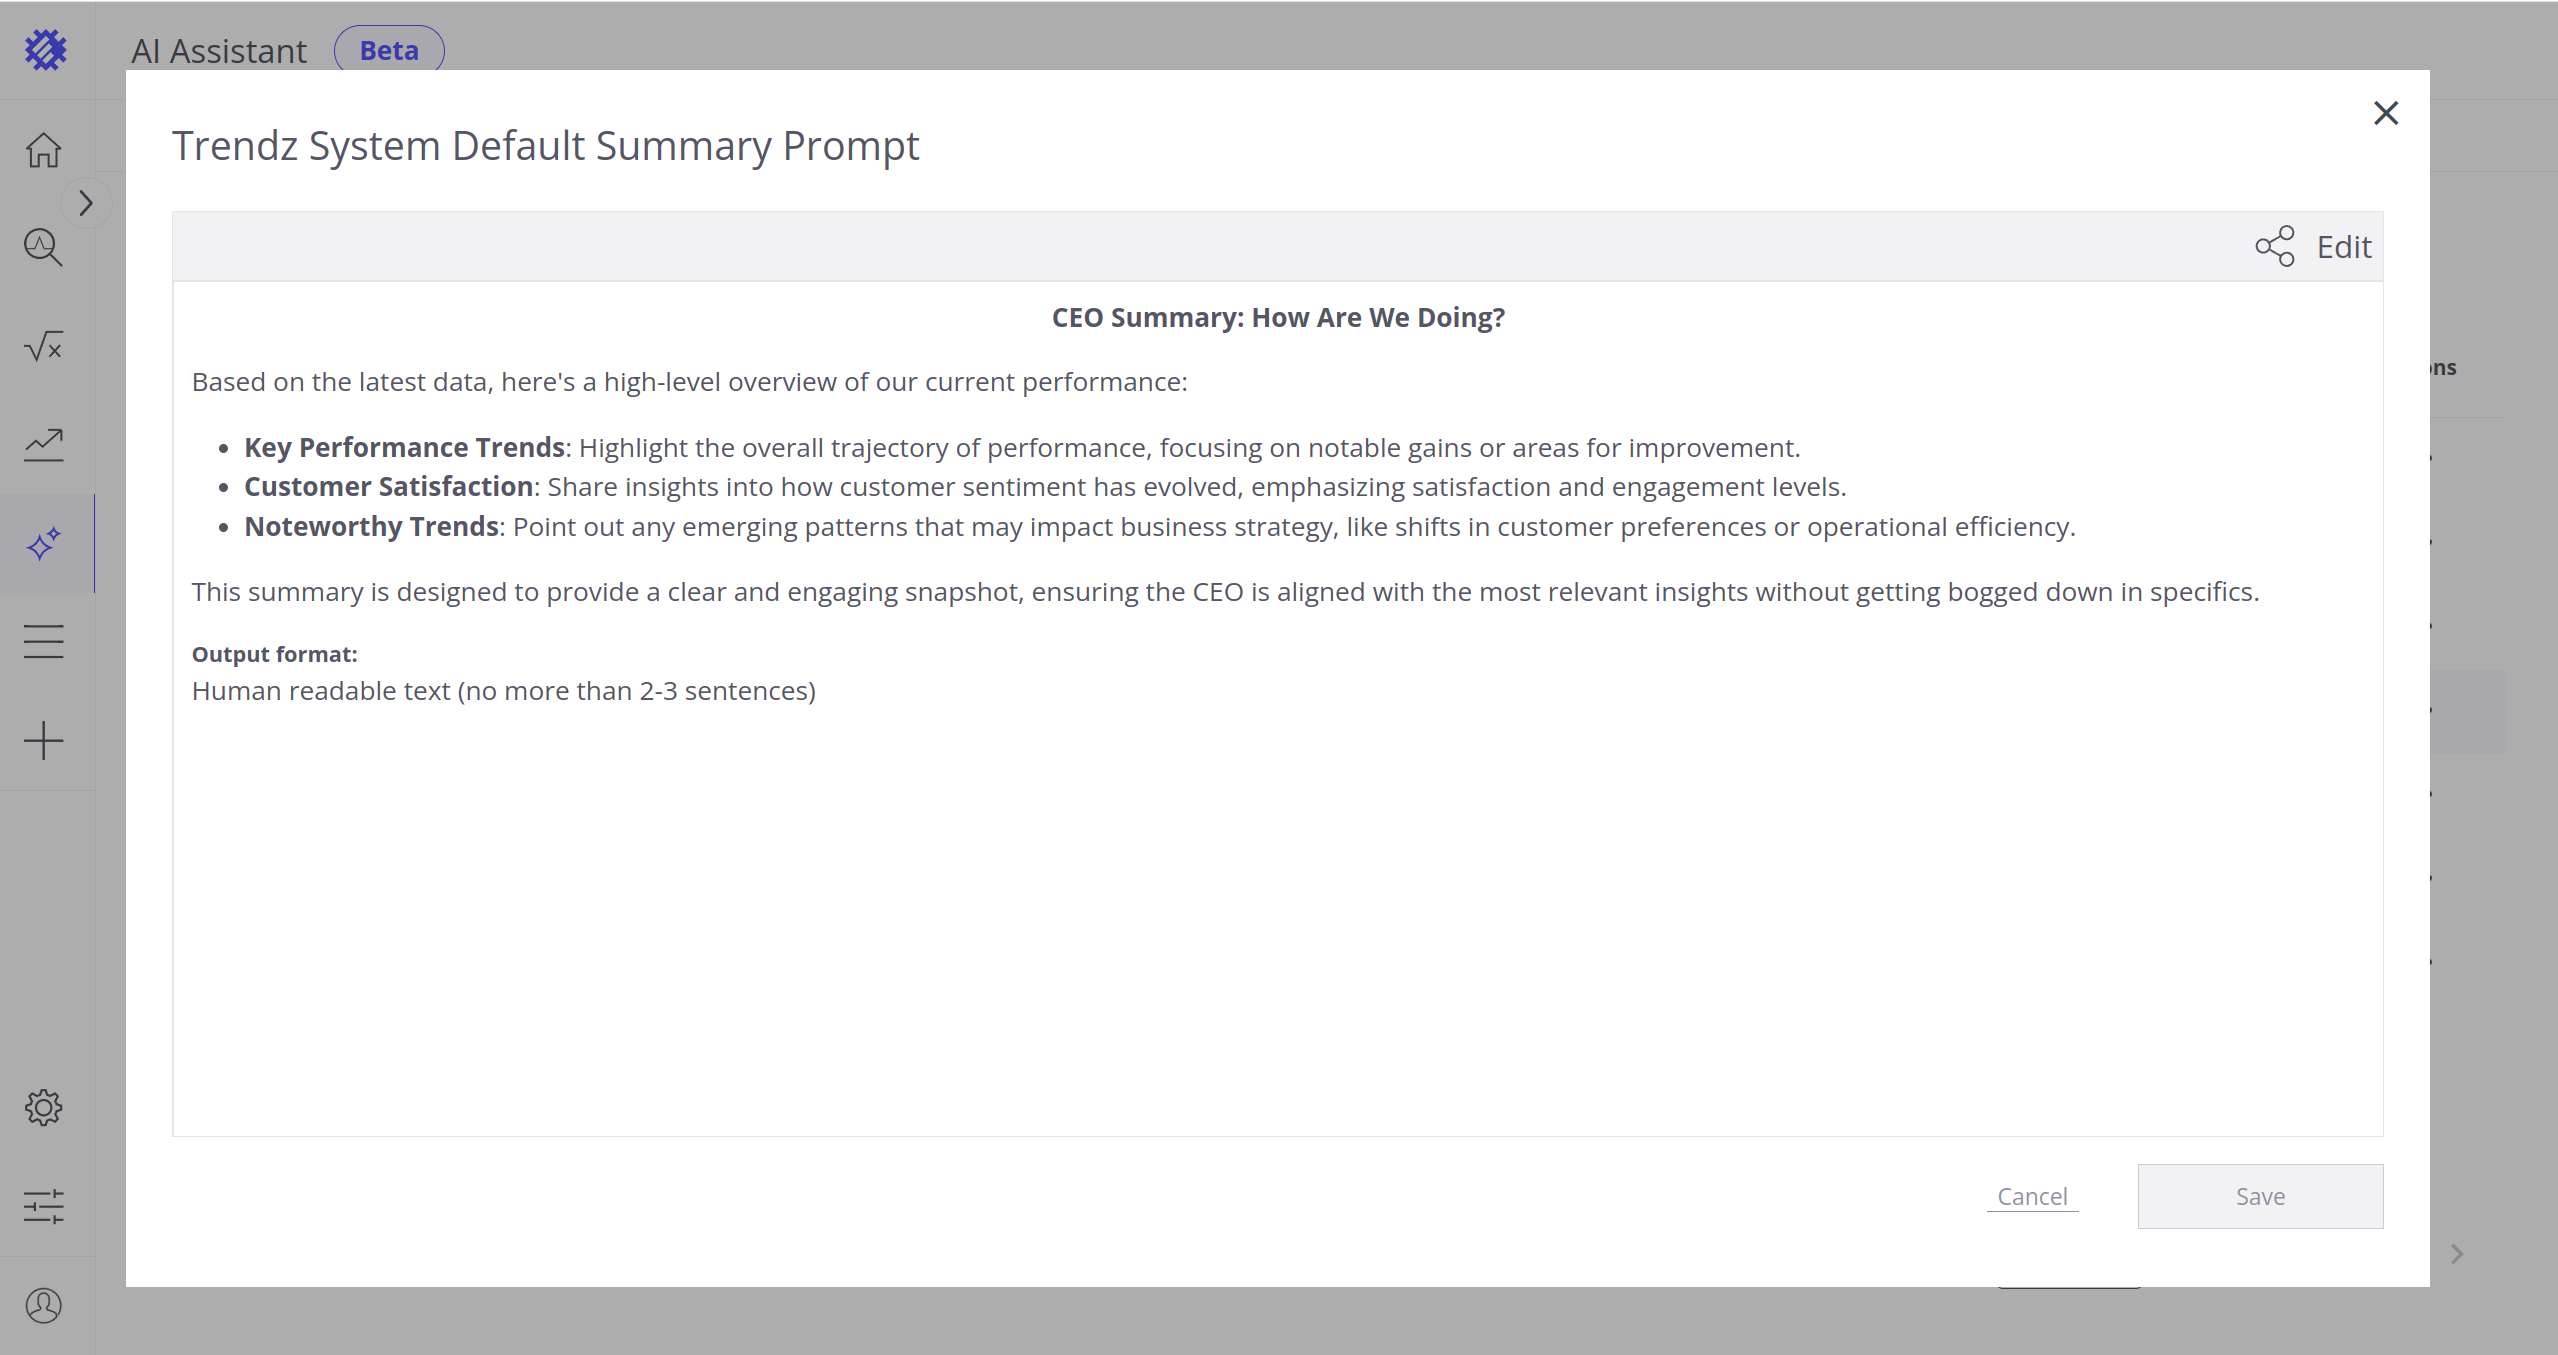
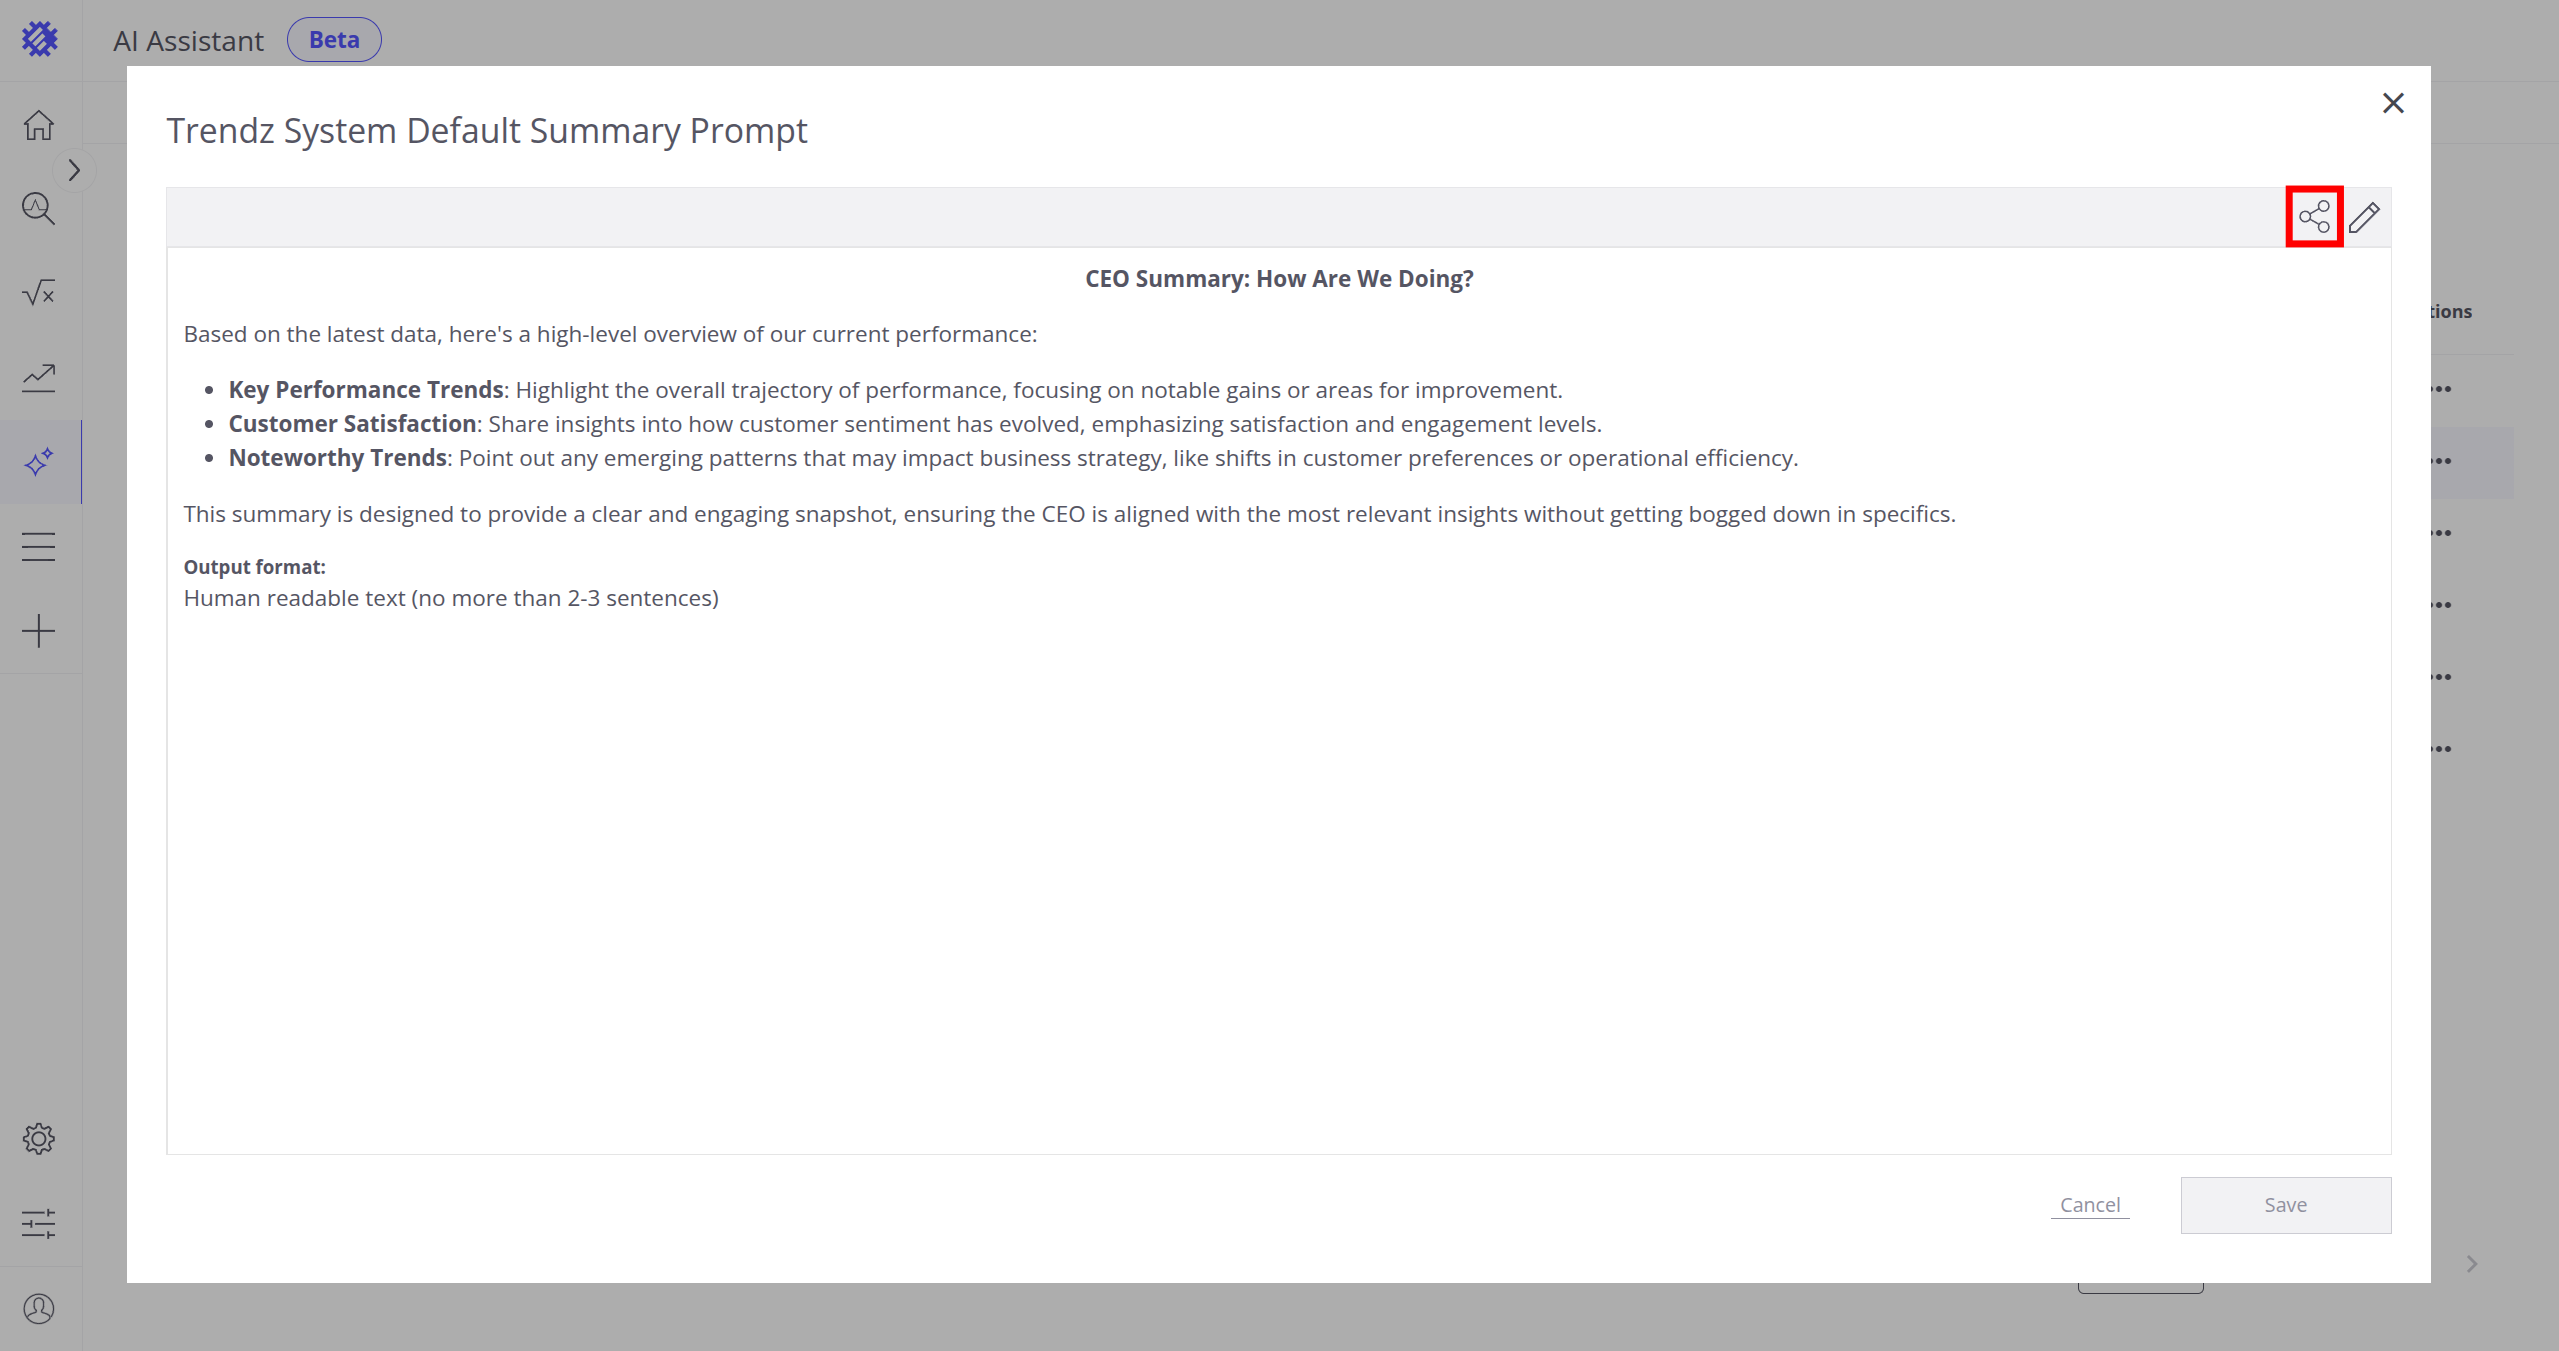
Added copy button to the Trendz Prompts

diff --git a/docs/trendz/ai-assistance-prompts.md b/docs/trendz/ai-assistance-prompts.md
@@ -39,7 +39,7 @@ trendz-prompts-check-selected-prompt:
     title: You can click on any prompt in the table to view its content.
   1:
     image: /images/trendz/ai/prompts/check-selected-prompt-2.png
-    title: Content of Trendz System Default Summary Prompt
+    title: Content of Trendz System Default Summary Prompt. Additionally, you can copy the prompt ID by clicking the *Copy prompt ID* button in the upper-right corner of the tab. The prompt ID will be copied to the clipboard.
     
 trendz-prompts-edit-selected-prompt:
   0:
@@ -109,8 +109,8 @@ trendz-prompts-markdown-rename:
     image: /images/trendz/ai/prompts/markdown-rename-2.png
     text: Enter the new name.
   2:
-    image: /images/trendz/ai/prompts/markdown-rename-2.png
-    text: Click any free space to confirm the changes
+    image: /images/trendz/ai/prompts/markdown-rename-3.png
+    text: Click any free space to confirm the changes.
 
 trendz-prompts-markdown-confirm:
   0:
@@ -166,11 +166,14 @@ To access the Prompts tab, you can follow these steps:
 
   {% include images-gallery.html imageCollection="trendz-prompts-create-new-prompt" %}
 
-* **Check selected prompt**
+* **Check selected prompt and Copy prompt ID**
 
-  You can click on any prompt in the table to view its content. This will take you to the Markdown tab 
+  You can click on any prompt in the table to view its content. This will take you to the Markdown tab
   (see more about interacting with the Markdown tab in the relevant section).
-    {% include images-gallery.html imageCollection="trendz-prompts-check-selected-prompt" %}
+
+  Additionally, you can copy the prompt ID by clicking the *Copy prompt ID* button in the upper-right corner of the tab.
+  The prompt ID will be copied to the clipboard.
+  {% include images-gallery.html imageCollection="trendz-prompts-check-selected-prompt" %}
 
 * **Edit selected prompt**
 
